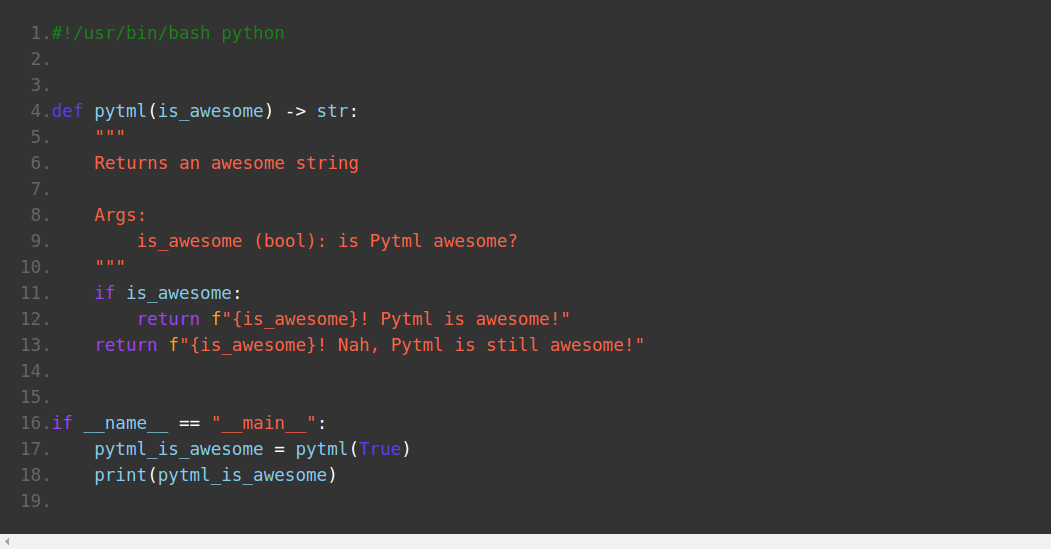
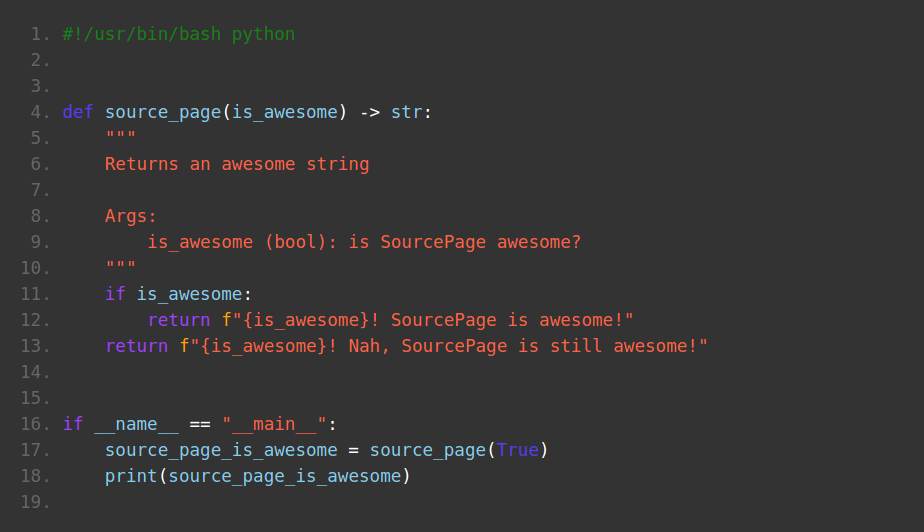
update sample image and README.md

diff --git a/source_page/sample.py b/source_page/sample.py
@@ -1,18 +1,18 @@
 #!/usr/bin/bash python
 
 
-def pytml(is_awesome) -> str:
+def source_page(is_awesome) -> str:
     """
     Returns an awesome string
 
     Args:
-        is_awesome (bool): is Pytml awesome?
+        is_awesome (bool): is SourcePage awesome?
     """
     if is_awesome:
-        return f"{is_awesome}! Pytml is awesome!"
-    return f"{is_awesome}! Nah, Pytml is still awesome!"
+        return f"{is_awesome}! SourcePage is awesome!"
+    return f"{is_awesome}! Nah, SourcePage is still awesome!"
 
 
 if __name__ == "__main__":
-    pytml_is_awesome = pytml(True)
-    print(pytml_is_awesome)
+    source_page_is_awesome = source_page(True)
+    print(source_page_is_awesome)

diff --git a/README.md b/README.md
@@ -1,4 +1,4 @@
-# Python HTML Parser
+# SourcePage: A Python parser that creates HTML pages
 
 Parses Python source code and produces a colour-coded HTML representation of the code. This app uses
 the <a href="https://docs.python.org/3/library/tokenize.html">tokenize</a>
